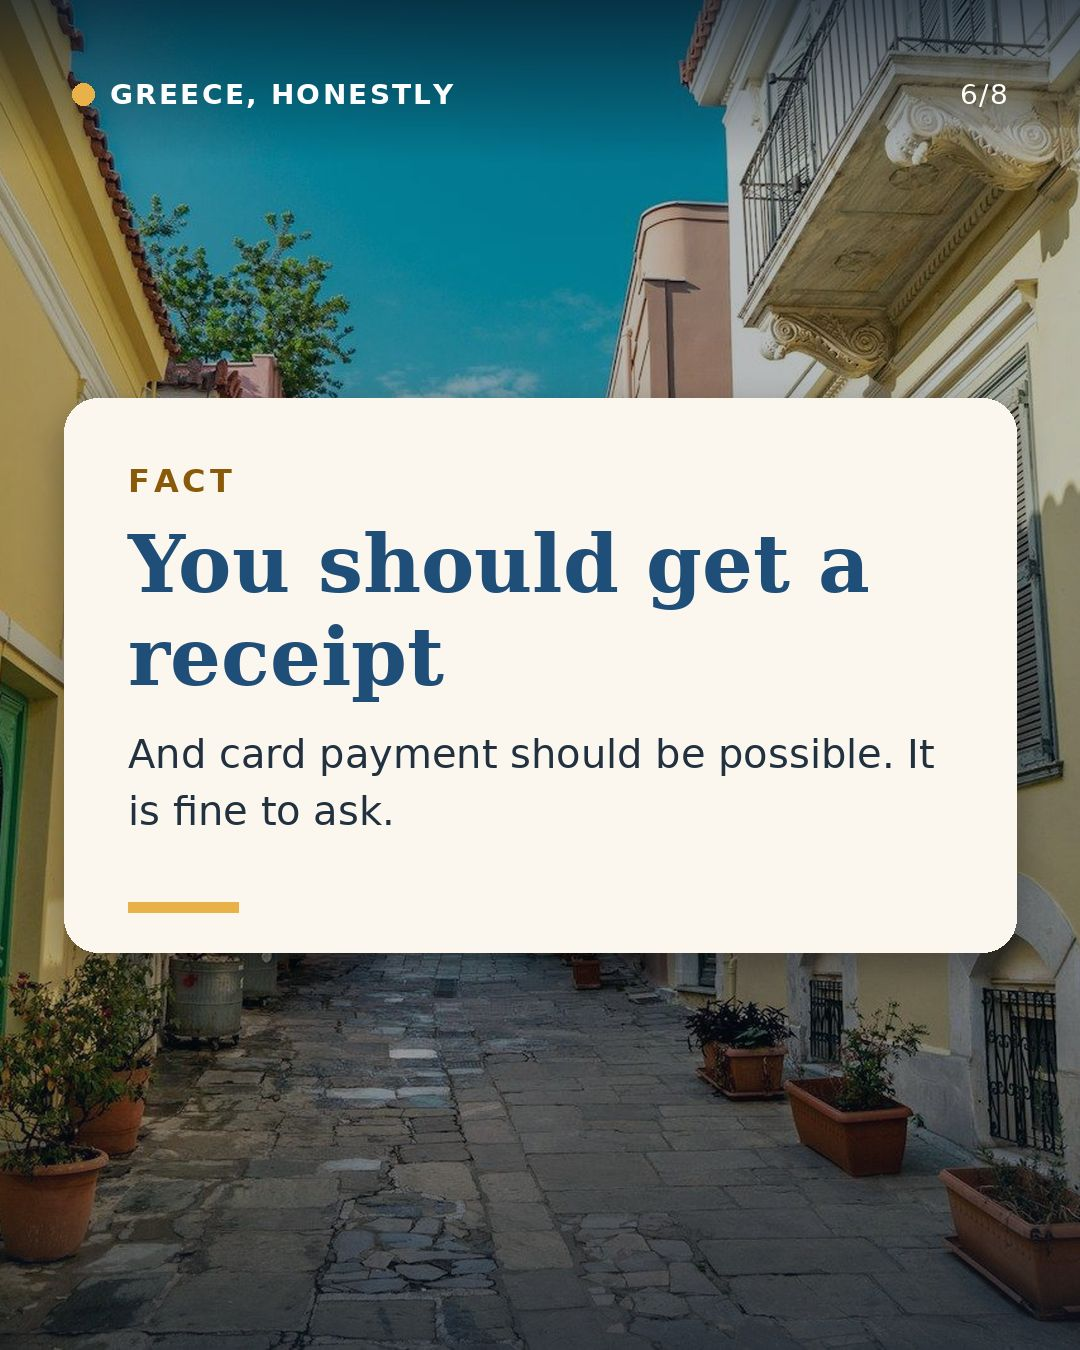
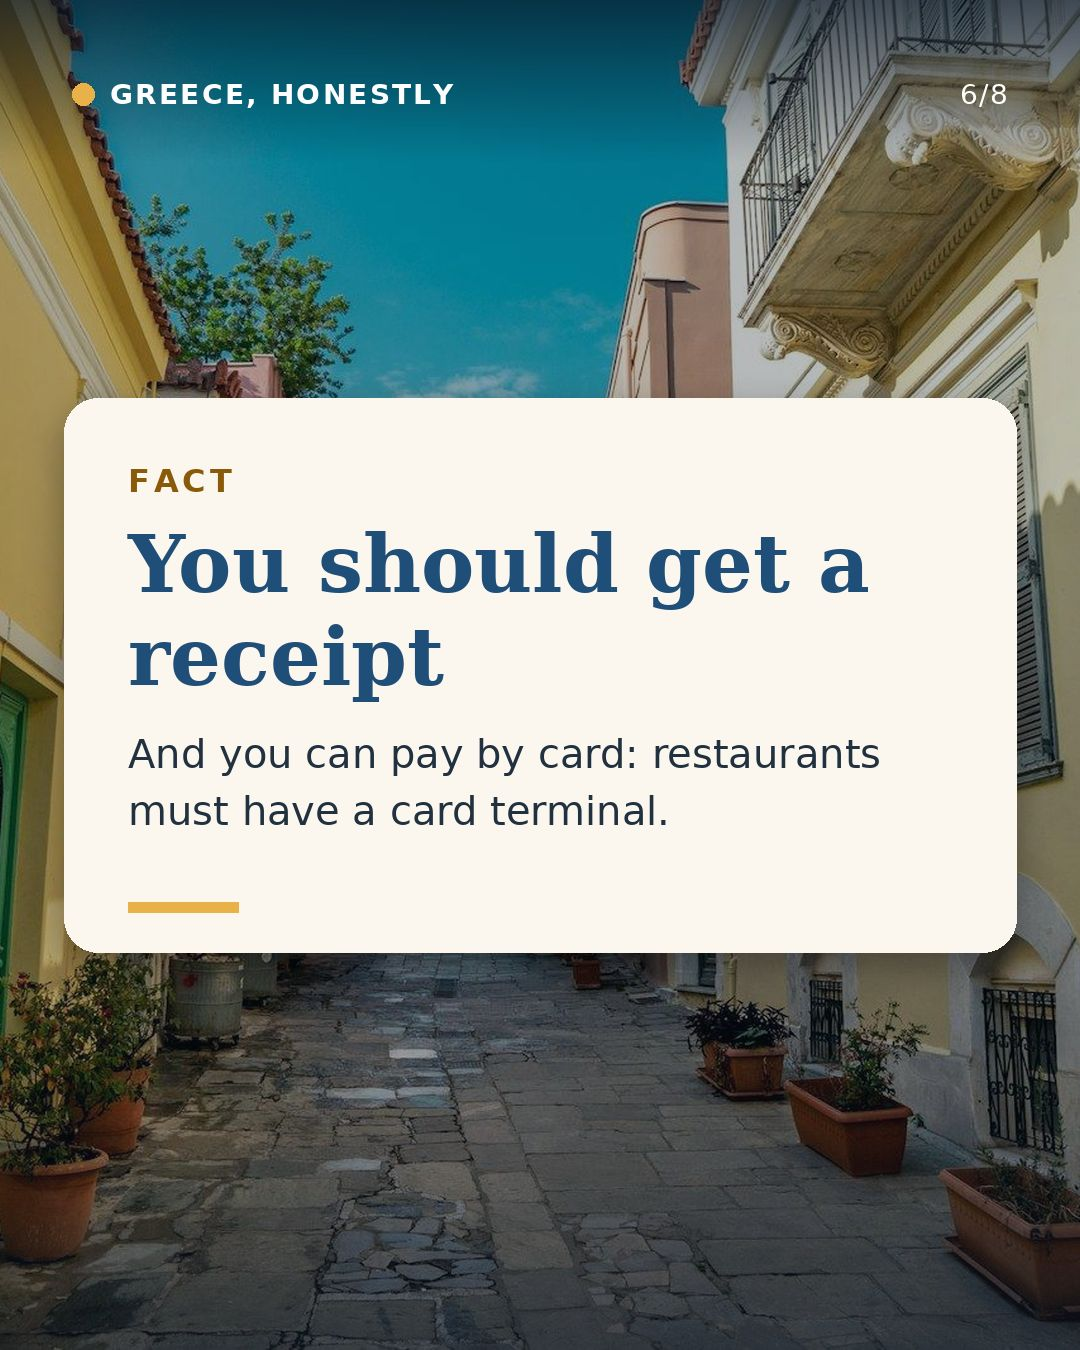
QA pass: Lafcadio Hearn's full name, sentence-case headings, consistent wording
- Patrick Lafcadio Hearn: Lafcadio is his middle name (article, blog, carousel, guide)
- Route headings in sentence case
- 'Card payment should be possible' replaced with the confirmed card-terminal rule
- 183-day rule worded the same everywhere
- Spell check, repeated-word check, alt text and internal links: no other issues

Claude-Session: https://claude.ai/code/session_01M8BpqDb4LaCuCA6Sm5Rojs

Changed region(s): [[0.1222, 0.5289, 0.825, 0.6222]]

diff --git a/scripts/social.py b/scripts/social.py
@@ -17,7 +17,7 @@ car('01-taverna-bill-myths', 'Taverna bill: myths vs facts', 'Myths vs facts', [
  ('Fact', 'Fish is priced by the kilo', 'The menu price is per kilo, not per plate. Ask the weight and price before cooking.', 'corfu-boats'),
  ('Myth', '"You must tip 15%"', 'Tipping is optional. About 5–10% in cash if you were happy.', 'taverna-tables'),
  ('Fact', 'Kerasméno means on the house', 'That dessert you did not order? A gift from the taverna. Say efcharistó.', 'coffee'),
- ('Fact', 'You should get a receipt', 'And card payment should be possible. It is fine to ask.', 'athens-street'),
+ ('Fact', 'You should get a receipt', 'And you can pay by card: restaurants must have a card terminal.', 'athens-street'),
  ('Locals do this', 'Order several dishes and share', 'Plates go in the middle and everyone helps themselves. Order more later.', 'taverna-chairs'),
  ('Free guide', 'Read the full etiquette guide', 'Link in bio: Greek taverna etiquette, free on our website.', 'taverna-tables'),
 ], 'Bread on the bill? Fish by the kilo? Here is how a Greek taverna bill really works, so nothing surprises you. Free guide on our site.',
@@ -206,7 +206,7 @@ car('15-lefkada-quiz', 'Lefkada quiz', 'Quiz', [
  ('Question 1', 'How do you reach Lefkada?', 'By road, over a floating bridge from the mainland. No ferry needed.', 'lefkada-bay'),
  ('Question 2', 'Where is the nearest airport?', 'Aktion (Preveza) on the mainland, about 20 km away.', 'lefkada-beach'),
  ('Question 3', 'Why do windsurfers love Vasiliki?', 'A thermal wind builds in the bay in the afternoon.', 'lefkada-boats'),
- ('Question 4', 'Which writer was born here?', 'Lafcadio Hearn, in 1850. His middle name comes from the island.', 'lefkada-cliff'),
+ ('Question 4', 'Which writer was born here?', 'Patrick Lafcadio Hearn, in 1850. Lafcadio, his middle name, comes from the island.', 'lefkada-cliff'),
  ('Question 5', 'Calm water: west or east?', 'East. The west coast faces the open sea.', 'lefkada-boats'),
  ('Bonus', 'Egremni beach access?', 'Uncertain since the 2015 earthquake. Go by boat, and ask locally.', 'lefkada-cliff'),
  ('Free guide', 'Lefkada: a practical guide', 'Link in bio: beaches, villages and when to go.', 'lefkada-green'),

diff --git a/docs/social/15-lefkada-quiz.md b/docs/social/15-lefkada-quiz.md
@@ -9,7 +9,7 @@
 | 2 | Question 1 | How do you reach Lefkada? | By road, over a floating bridge from the mainland. No ferry needed. | `lefkada-bay.jpg` |
 | 3 | Question 2 | Where is the nearest airport? | Aktion (Preveza) on the mainland, about 20 km away. | `lefkada-beach.jpg` |
 | 4 | Question 3 | Why do windsurfers love Vasiliki? | A thermal wind builds in the bay in the afternoon. | `lefkada-boats.jpg` |
-| 5 | Question 4 | Which writer was born here? | Lafcadio Hearn, in 1850. His middle name comes from the island. | `lefkada-cliff.jpg` |
+| 5 | Question 4 | Which writer was born here? | Patrick Lafcadio Hearn, in 1850. Lafcadio, his middle name, comes from the island. | `lefkada-cliff.jpg` |
 | 6 | Question 5 | Calm water: west or east? | East. The west coast faces the open sea. | `lefkada-boats.jpg` |
 | 7 | Bonus | Egremni beach access? | Uncertain since the 2015 earthquake. Go by boat, and ask locally. | `lefkada-cliff.jpg` |
 | 8 | Free guide | Lefkada: a practical guide | Link in bio: beaches, villages and when to go. | `lefkada-green.jpg` |

diff --git a/docs/payhip-blog/01-lefkada-in-one-page.md b/docs/payhip-blog/01-lefkada-in-one-page.md
@@ -20,7 +20,7 @@ If you only read one thing before a trip to Lefkada, make it this.
 
 **Go up the mountain.** Karya is known for its embroidery and Eglouvi for its small lentils. Both are a winding drive from the coast, and both are a different world from the beach resorts.
 
-**Look up in town.** Many houses in Lefkada town have a stone ground floor and a light timber upper floor clad in painted metal, a local way of building to cope with earthquakes. The writer Lafcadio Hearn was born on the island in 1850 and took his middle name from it.
+**Look up in town.** Many houses in Lefkada town have a stone ground floor and a light timber upper floor clad in painted metal, a local way of building to cope with earthquakes. The writer Patrick Lafcadio Hearn was born on the island in 1850; Lafcadio, his middle name, comes from it.
 
 **When:** May, June and September are the sweet spots. August is busiest, especially around the 15th. The town hosts its International Folklore Festival in August.
 

diff --git a/docs/social/01-taverna-bill-myths.md b/docs/social/01-taverna-bill-myths.md
@@ -10,7 +10,7 @@
 | 3 | Fact | Fish is priced by the kilo | The menu price is per kilo, not per plate. Ask the weight and price before cooking. | `corfu-boats.jpg` |
 | 4 | Myth | "You must tip 15%" | Tipping is optional. About 5–10% in cash if you were happy. | `taverna-tables.jpg` |
 | 5 | Fact | Kerasméno means on the house | That dessert you did not order? A gift from the taverna. Say efcharistó. | `coffee.jpg` |
-| 6 | Fact | You should get a receipt | And card payment should be possible. It is fine to ask. | `athens-street.jpg` |
+| 6 | Fact | You should get a receipt | And you can pay by card: restaurants must have a card terminal. | `athens-street.jpg` |
 | 7 | Locals do this | Order several dishes and share | Plates go in the middle and everyone helps themselves. Order more later. | `taverna-chairs.jpg` |
 | 8 | Free guide | Read the full etiquette guide | Link in bio: Greek taverna etiquette, free on our website. | `taverna-tables.jpg` |
 

diff --git a/src/articles/greece-digital-nomad-visa-2026.md b/src/articles/greece-digital-nomad-visa-2026.md
@@ -120,7 +120,7 @@ An hour with an accountant who knows both countries is worth more than any forum
 3. Get the type D visa at a Greek consulate **before** you travel; you cannot switch from tourist status.
 4. The national visa fee in the law is €75; the visa is valid for up to 12 months, and the residence permit lasts 2 years and is renewable.
 5. You need full health insurance covering Greece; travel insurance is not enough.
-6. Expect to become a Greek tax resident if you stay more than 183 days, and do not count on the 50% tax break.
+6. Expect to become a Greek tax resident if you stay more than 183 days in any 12-month period, and do not count on the 50% tax break.
 
 If you are thinking about Greece as a long-term base rather than a remote-work stint, the rules for the [Financially Independent Person permit](/articles/retiring-to-greece-2026/) are worth a look too, though that permit does not allow you to work in Greece at all.
 

diff --git a/src/articles/lefkada-travel-guide.md b/src/articles/lefkada-travel-guide.md
@@ -92,7 +92,7 @@ Lefkada town sits right by the bridge and lagoon. Walk the old streets and look 
 **Two cultural notes:**
 
 - **The August festivals.** Lefkada's arts and literature events have been held since 1955, and the International Folklore Festival since 1962. The folklore festival takes place in August and brings dance and music groups from many countries to the town. Check the exact dates each year.
-- **Lafcadio Hearn.** The writer Lafcadio Hearn, famous for his books about Japan, was born on Lefkada in 1850. His middle name, Lafcadio, comes from the island's name.
+- **Lafcadio Hearn.** The writer Patrick Lafcadio Hearn, famous for his books about Japan, was born on Lefkada in 1850. Lafcadio, his middle name, comes from the island's name.
 
 ## When to go
 

diff --git a/src/articles/greek-island-hopping-three-routes.md b/src/articles/greek-island-hopping-three-routes.md
@@ -33,7 +33,7 @@ These four rules will save most trips:
 **Ferry times change every year.** Always check the current schedules for your dates before you book anything that cannot be changed.
 :::
 
-## Route 1: Classic Cyclades (10–12 days)
+## Route 1: classic Cyclades (10–12 days)
 
 The famous islands, in an order that flows.
 
@@ -50,7 +50,7 @@ The famous islands, in an order that flows.
 
 **Tip:** if your dates are flexible, Santorini is at its best in May or October, when it is less crowded than midsummer. With 10–12 days, you can add a spare night in Athens at either end.
 
-## Route 2: Quiet Cyclades (10 days)
+## Route 2: quiet Cyclades (10 days)
 
 The same island group, a completely different mood. Smaller islands, fewer crowds.
 

diff --git a/src/articles/what-to-order-in-a-greek-taverna.md b/src/articles/what-to-order-in-a-greek-taverna.md
@@ -16,7 +16,7 @@ Here is how it works, plus ten dishes worth knowing.
 :::facts
 food | Order | Several dishes, and share
 euro | Bread | Usually charged
-doc | Receipt | You should get one; card payment should be possible
+doc | Receipt | You should get one, and you can pay by card
 check | Tip | Optional, about 5–10% in cash
 :::
 
